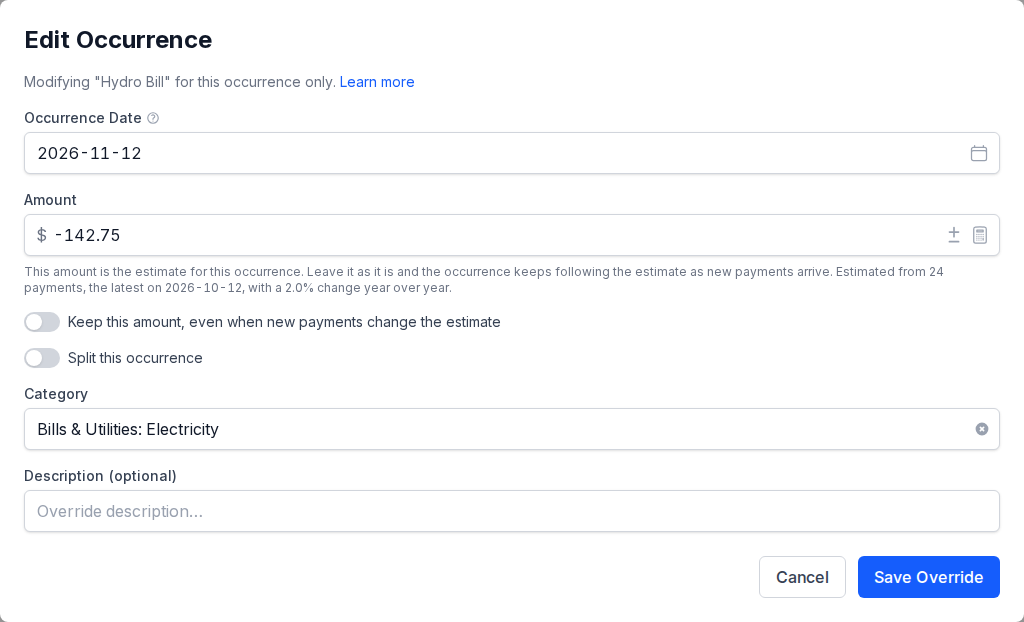
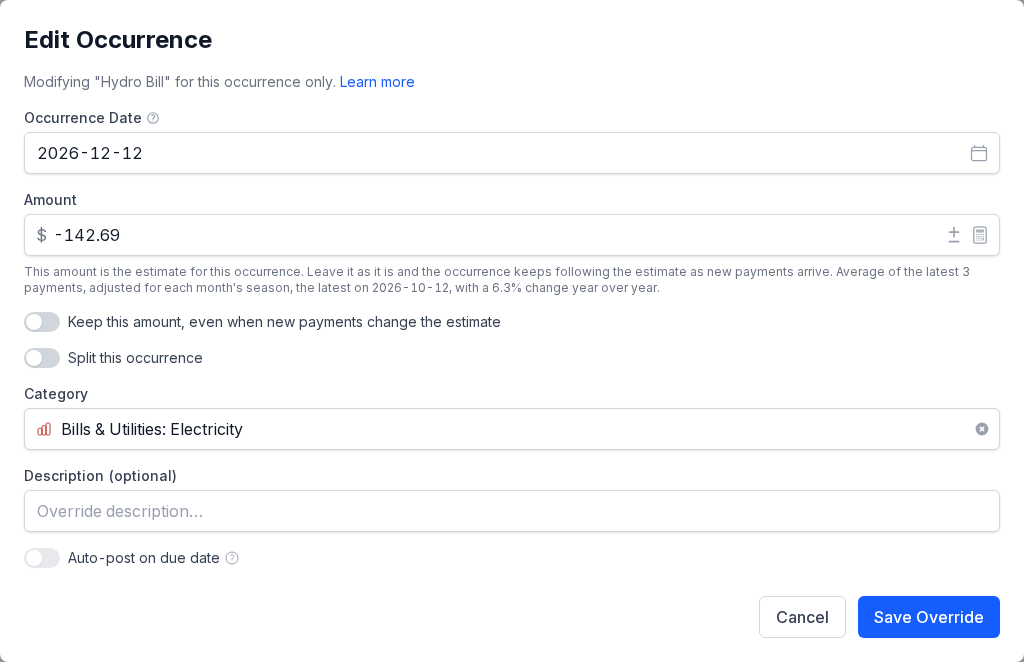
docs(website): describe per-occurrence auto-post and retake Bills pictures
The Bills & Deposits page explains the Edit Occurrence toggle and the
list's "Next on" / "Next off" markers; all its pictures are retaken in both
themes, with one demo bill's next occurrence opted in and one opted out.

cardOf, the capture helper that crops a picture to its card, matched cards
by a rounded-lg class that cards stopped carrying when the UI styles made
the radius a token, so every card-cropped picture timed out. It now matches
the ui-card marker CARD_CLASS carries.

Changed region(s): [[0.0, 0.0305, 0.9688, 0.8553], [0.75, 0.8859, 0.9688, 0.9775], [0.9375, 0.6415, 0.9688, 0.7026]]

diff --git a/website/docs/bills-and-deposits.html b/website/docs/bills-and-deposits.html
@@ -27,7 +27,7 @@
 <li>A payment in another currency is converted at the current exchange rate. Refunds from the biller are left out.</li>
 </ul>
 <figure><img src="/docs/images/scheduled-transaction-estimate.png" alt="A schedule with Estimate on" width="1104" height="942" loading="lazy" decoding="async" class="shot-dark"/><img src="/docs/images/scheduled-transaction-estimate.light.png" alt="A schedule with Estimate on" width="1104" height="942" loading="lazy" decoding="async" class="shot-light"/><figcaption>A schedule with Estimate on</figcaption></figure>
-<p>The estimate follows new payments as you record them. Under the <strong>Amount</strong>, the form says which payments set the estimate (those of the last 12 months, or your three most recent) and when the latest was, or what is missing when there is not enough to estimate from: no payments yet, or no exchange rate for a payment&#x27;s currency. An estimated schedule needs a <strong>Payee</strong> and a <strong>Category</strong>, is available for a single-category transaction in the account&#x27;s own currency (not a split, investment, or foreign-currency amount) or for a transfer (see <a href="#estimated-transfers">Estimated Transfers</a>), and is never posted automatically, so <strong>Auto-post on due date</strong> is turned off.</p>
+<p>The estimate follows new payments as you record them. Under the <strong>Amount</strong>, the form says which payments set the estimate (those of the last 12 months, or your three most recent) and when the latest was, or what is missing when there is not enough to estimate from: no payments yet, or no exchange rate for a payment&#x27;s currency. An estimated schedule needs a <strong>Payee</strong> and a <strong>Category</strong>, is available for a single-category transaction in the account&#x27;s own currency (not a split, investment, or foreign-currency amount) or for a transfer (see <a href="#estimated-transfers">Estimated Transfers</a>), and is not posted automatically, so <strong>Auto-post on due date</strong> is turned off. Once you enter an occurrence&#x27;s own amount in <strong>Edit Occurrence</strong>, you can turn on auto-posting for that one occurrence (see <a href="#modifying-an-occurrence">Modifying an Occurrence</a>).</p>
 <p>You still decide every occurrence: the bills list labels the amount <strong>Estimated</strong>, <strong>Edit Occurrence</strong> shows each upcoming occurrence&#x27;s estimate and lets you change any of them, and the <strong>Post Transaction</strong> dialog opens on the estimate for you to correct before posting. An occurrence you change keeps your amount; one you leave alone keeps following the estimate.</p>
 <h4 id="estimated-transfers">Estimated Transfers<a class="hlink" href="#estimated-transfers" aria-label="Link to this section">#</a></h4>
 <p>A transfer, such as the monthly payment of a credit card from your chequing account, has an <strong>Estimate</strong> toggle beside its <strong>Transfer Amount</strong> too. Its starting point is the same estimate, worked out from the last 24 months of transfers from the schedule&#x27;s account to the <strong>To Account</strong> (no payee or category needed). When the account you pay into owes more than that, the payment is raised to match, and never lowered:</p>
@@ -63,7 +63,7 @@
 </aside>
 <h2 id="bills-list">Bills List<a class="hlink" href="#bills-list" aria-label="Link to this section">#</a></h2>
 <p>Below the forecast, the list shows all scheduled transactions with:</p>
-<div class="table-wrap"><table><thead><tr><th>Column</th><th>Description</th></tr></thead><tbody><tr><td><strong>Name / Payee</strong></td><td>What the schedule is called and who it is with</td></tr><tr><td><strong>Account</strong></td><td>The account involved</td></tr><tr><td><strong>Category</strong></td><td>The category, the transfer&#x27;s destination, or a <strong>Split</strong> badge</td></tr><tr><td><strong>Amount</strong></td><td>The amount of the next occurrence</td></tr><tr><td><strong>Schedule</strong></td><td>The next due date with an <strong>Overdue</strong>, <strong>Due Today</strong>, or <strong>Due Soon</strong> (within a week) badge, the frequency, and how many occurrences are left</td></tr><tr><td><strong>Auto-Post</strong></td><td><strong>On</strong> when the schedule posts itself</td></tr><tr><td><strong>Actions</strong></td><td><strong>Post Transaction</strong>, <strong>Skip Occurrence</strong>, <strong>Edit Occurrence</strong>, <strong>Edit Schedule</strong>, and <strong>Delete</strong></td></tr></tbody></table></div>
+<div class="table-wrap"><table><thead><tr><th>Column</th><th>Description</th></tr></thead><tbody><tr><td><strong>Name / Payee</strong></td><td>What the schedule is called and who it is with</td></tr><tr><td><strong>Account</strong></td><td>The account involved</td></tr><tr><td><strong>Category</strong></td><td>The category, the transfer&#x27;s destination, or a <strong>Split</strong> badge</td></tr><tr><td><strong>Amount</strong></td><td>The amount of the next occurrence</td></tr><tr><td><strong>Schedule</strong></td><td>The next due date with an <strong>Overdue</strong>, <strong>Due Today</strong>, or <strong>Due Soon</strong> (within a week) badge, the frequency, and how many occurrences are left</td></tr><tr><td><strong>Auto-Post</strong></td><td><strong>On</strong> when the schedule posts itself. <strong>Next on</strong> marks a bill you post by hand whose next occurrence is set to post itself, and <strong>Next off</strong> an auto-posting bill whose next occurrence is left for you to post; the help icon beside either says which date it is</td></tr><tr><td><strong>Actions</strong></td><td><strong>Post Transaction</strong>, <strong>Skip Occurrence</strong>, <strong>Edit Occurrence</strong>, <strong>Edit Schedule</strong>, and <strong>Delete</strong></td></tr></tbody></table></div>
 <figure><img src="/docs/images/bills-list.png" alt="The list of scheduled transactions" width="1504" height="988" loading="lazy" decoding="async" class="shot-dark"/><img src="/docs/images/bills-list.light.png" alt="The list of scheduled transactions" width="1504" height="988" loading="lazy" decoding="async" class="shot-light"/><figcaption>The list of scheduled transactions</figcaption></figure>
 <p>A <strong>modified</strong> badge counts the upcoming occurrences you have changed (see <a href="#overriding-individual-occurrences">Overriding Individual Occurrences</a>), and paused schedules are marked inactive.</p>
 <h3 id="filtering">Filtering<a class="hlink" href="#filtering" aria-label="Link to this section">#</a></h3>
@@ -75,14 +75,14 @@
 <figure><img src="/docs/images/bills-calendar.png" alt="Bills &amp; Deposits in calendar view" width="1600" height="1000" loading="lazy" decoding="async" class="shot-dark"/><img src="/docs/images/bills-calendar.light.png" alt="Bills &amp; Deposits in calendar view" width="1600" height="1000" loading="lazy" decoding="async" class="shot-light"/><figcaption>Bills &amp; Deposits in calendar view</figcaption></figure>
 <h2 id="posting-a-transaction">Posting a Transaction<a class="hlink" href="#posting-a-transaction" aria-label="Link to this section">#</a></h2>
 <p>To record an occurrence yourself, click <strong>Post Transaction</strong> on its row. The <strong>Post Transaction</strong> dialog lets you change the <strong>Transaction Date</strong>, the <strong>Amount</strong>, the <strong>Category</strong>, the <strong>Description</strong>, and the <strong>Reference Number</strong> for this posting only, or split it with <strong>Split this transaction</strong>. It shows what the posting does to the account&#x27;s balance, and warns you when posting on that date would take an account below zero or over its credit limit.</p>
-<figure><img src="/docs/images/bills-post-transaction.png" alt="The Post Transaction dialog" width="1024" height="652" loading="lazy" decoding="async" class="shot-dark"/><img src="/docs/images/bills-post-transaction.light.png" alt="The Post Transaction dialog" width="1024" height="652" loading="lazy" decoding="async" class="shot-light"/><figcaption>The Post Transaction dialog</figcaption></figure>
+<figure><img src="/docs/images/bills-post-transaction.png" alt="The Post Transaction dialog" width="1024" height="668" loading="lazy" decoding="async" class="shot-dark"/><img src="/docs/images/bills-post-transaction.light.png" alt="The Post Transaction dialog" width="1024" height="652" loading="lazy" decoding="async" class="shot-light"/><figcaption>The Post Transaction dialog</figcaption></figure>
 <p>Click <strong>Post Transaction</strong> to create the transaction and advance the schedule to its next due date. Clicking an item in the dashboard&#x27;s <a href="/docs/dashboard#upcoming-bills">Upcoming Bills</a> widget opens the same dialog.</p>
 <p>Posted one by mistake? <strong>Undo</strong> it (<strong>Ctrl+Z</strong>, or <strong>Action History</strong> in the header, where it is listed as <strong>Posted scheduled transaction</strong>). Undo removes the transaction and puts the schedule back on the occurrence you posted, with any change you had made to that occurrence; a one-time bill comes back to the list. On a schedule that posts automatically, an occurrence that is already due would only be posted again within the hour, so undoing it removes the transaction and leaves that occurrence skipped instead. When a later occurrence of the same schedule has been posted since, undo that one first; when the next occurrence has been skipped since, delete the posted transaction instead. A posting cannot be redone: post the occurrence again instead.</p>
 <h2 id="auto-posting">Auto-Posting<a class="hlink" href="#auto-posting" aria-label="Link to this section">#</a></h2>
 <p>When <strong>Auto-post on due date</strong> is turned on for a scheduled transaction, Monize automatically creates the transaction on its due date without any manual intervention.</p>
 <h3 id="how-it-works">How It Works<a class="hlink" href="#how-it-works" aria-label="Link to this section">#</a></h3>
 <ol>
-<li>Every hour, Monize checks for active, auto-posting scheduled transactions that are due today or overdue in your timezone</li>
+<li>Every hour, Monize checks for active scheduled transactions whose next occurrence is due today or overdue in your timezone and set to post automatically, by the schedule or by that occurrence&#x27;s own <strong>Auto-post on due date</strong> in <strong>Edit Occurrence</strong></li>
 <li>Each due occurrence is created in the designated account, with any changes you made to that occurrence</li>
 <li>The next due date is calculated based on the frequency</li>
 <li>When the end date or the number of occurrences is reached, the schedule ends</li>
@@ -95,7 +95,7 @@
 </ul>
 <h3 id="when-not-to-use-auto-posting">When NOT to Use Auto-Posting<a class="hlink" href="#when-not-to-use-auto-posting" aria-label="Link to this section">#</a></h3>
 <ul>
-<li><strong>Variable-amount bills</strong> (e.g., utilities, credit card payments) -- Use reminders instead and enter the actual amount manually, or turn on <a href="#estimated-amounts">Estimate</a> so the forecast follows your history (an estimated bill is never auto-posted)</li>
+<li><strong>Variable-amount bills</strong> (e.g., utilities, credit card payments) -- Use reminders instead and enter the actual amount manually, or turn on <a href="#estimated-amounts">Estimate</a> so the forecast follows your history (an estimated bill is auto-posted only for an occurrence whose amount you entered and set to auto-post)</li>
 <li><strong>Bills your bank&#x27;s import already brings in</strong> -- the imported row and the auto-posted one would both be recorded</li>
 </ul>
 <h2 id="overriding-individual-occurrences">Overriding Individual Occurrences<a class="hlink" href="#overriding-individual-occurrences" aria-label="Link to this section">#</a></h2>
@@ -106,9 +106,10 @@
 <li>In <strong>Select Occurrence Date</strong>, choose which upcoming occurrence to change (occurrences you already changed are marked <strong>Modified</strong>)</li>
 <li>In the <strong>Edit Occurrence</strong> dialog, change the <strong>Occurrence Date</strong>, <strong>Amount</strong>, <strong>Category</strong>, or <strong>Description</strong> for this occurrence only</li>
 <li>To split just this occurrence across multiple categories, turn on <strong>Split this occurrence</strong> and add category/amount rows (independent of whether the underlying schedule is split)</li>
+<li>Turn <strong>Auto-post on due date</strong> on to have Monize post just this occurrence automatically on its date, or off to post it yourself when the schedule otherwise posts automatically. For an <a href="#estimated-amounts">estimated</a> bill the switch stays off until you enter this occurrence&#x27;s own amount. When the next occurrence&#x27;s choice differs from the bill&#x27;s, the list&#x27;s <strong>Auto-Post</strong> column shows <strong>Next on</strong> or <strong>Next off</strong>, and the dashboard&#x27;s upcoming bills and the Upcoming Bills report mark that occurrence <strong>Manual</strong> or not by its own choice</li>
 <li>Click <strong>Save Override</strong> (or <strong>Update Override</strong> for one you changed before)</li>
 </ol>
-<figure><img src="/docs/images/bills-edit-occurrence.png" alt="The Edit Occurrence dialog" width="1024" height="622" loading="lazy" decoding="async" class="shot-dark"/><img src="/docs/images/bills-edit-occurrence.light.png" alt="The Edit Occurrence dialog" width="1024" height="622" loading="lazy" decoding="async" class="shot-light"/><figcaption>The Edit Occurrence dialog</figcaption></figure>
+<figure><img src="/docs/images/bills-edit-occurrence.png" alt="The Edit Occurrence dialog" width="1024" height="662" loading="lazy" decoding="async" class="shot-dark"/><img src="/docs/images/bills-edit-occurrence.light.png" alt="The Edit Occurrence dialog" width="1024" height="622" loading="lazy" decoding="async" class="shot-light"/><figcaption>The Edit Occurrence dialog</figcaption></figure>
 <p>The override only affects that single occurrence. All other future occurrences follow the original schedule. <strong>Reset to Default</strong> removes the override. When you later edit a schedule that has overrides, Monize asks whether to <strong>Keep Modifications</strong> or <strong>Delete All Modifications</strong>.</p>
 <h3 id="skipping-an-occurrence">Skipping an Occurrence<a class="hlink" href="#skipping-an-occurrence" aria-label="Link to this section">#</a></h3>
 <p>If a recurring bill does not apply for a particular period (e.g., a holiday causes a payment to be skipped):</p>

diff --git a/e2e/docs-screenshots/bills-and-deposits.spec.ts b/e2e/docs-screenshots/bills-and-deposits.spec.ts
@@ -21,6 +21,10 @@ test.beforeAll(async ({ browser }) => {
   context = await openDocsSession(browser);
   page = await context.newPage();
   await estimateTheHydroBill();
+  // The list shows one bill whose next occurrence posts itself although the
+  // bill is posted by hand, and one the other way round.
+  await setNextOccurrenceAutoPost("Car Insurance", true);
+  await setNextOccurrenceAutoPost("Gym Membership", false);
 });
 
 interface ScheduleRow {
@@ -30,6 +34,37 @@ interface ScheduleRow {
   payeeId: string | null;
   categoryId: string | null;
   amountIsEstimated?: boolean;
+  nextDueDate: string;
+  nextOverride?: { id: string; autoPost?: boolean | null } | null;
+}
+
+/**
+ * Give the named demo bill's next occurrence its own auto-post choice, through
+ * the Edit Occurrence endpoints the dialog uses. Idempotent: an existing
+ * override of that occurrence is updated in place.
+ */
+async function setNextOccurrenceAutoPost(
+  name: string,
+  autoPost: boolean,
+): Promise<void> {
+  const api = apiFor(page);
+  const schedules = await api.get<ScheduleRow[]>("/scheduled-transactions");
+  const bill = schedules.find((s) => s.name === name);
+  if (!bill) throw new Error(`The demo data has no ${name} bill`);
+  if (bill.nextOverride) {
+    if (bill.nextOverride.autoPost === autoPost) return;
+    await api.patch(
+      `/scheduled-transactions/${bill.id}/overrides/${bill.nextOverride.id}`,
+      { autoPost },
+    );
+    return;
+  }
+  const date = String(bill.nextDueDate).slice(0, 10);
+  await api.post(`/scheduled-transactions/${bill.id}/overrides`, {
+    originalDate: date,
+    overrideDate: date,
+    autoPost,
+  });
 }
 
 /**

diff --git a/e2e/docs-screenshots/capture.ts b/e2e/docs-screenshots/capture.ts
@@ -82,10 +82,15 @@ export async function docShot(
   await shoot(page, file, { dir: DOCS_IMAGE_DIR, element });
 }
 
-/** The card (`Card`, a dashboard widget, a page section) that holds `inner`. */
+/**
+ * The card (`Card`, a dashboard widget, a page section) that holds `inner`, by
+ * the `ui-card` marker `CARD_CLASS` carries. Not by its corner class: the UI
+ * styles made the radius a token (`rounded-(--ui-radius-card)`), and the
+ * `rounded-lg` this used to look for matched no card at all.
+ */
 export function cardOf(inner: Locator): Locator {
   return inner.locator(
-    'xpath=ancestor::div[contains(concat(" ", normalize-space(@class), " "), " rounded-lg ")][1]',
+    'xpath=ancestor::*[contains(concat(" ", normalize-space(@class), " "), " ui-card ")][1]',
   );
 }
 

diff --git a/website/docs/bills-and-deposits.md b/website/docs/bills-and-deposits.md
@@ -56,7 +56,7 @@ For a bill whose amount changes from month to month, such as heating or electric
 
 ![A schedule with Estimate on](images/scheduled-transaction-estimate.png)
 
-The estimate follows new payments as you record them. Under the **Amount**, the form says which payments set the estimate (those of the last 12 months, or your three most recent) and when the latest was, or what is missing when there is not enough to estimate from: no payments yet, or no exchange rate for a payment's currency. An estimated schedule needs a **Payee** and a **Category**, is available for a single-category transaction in the account's own currency (not a split, investment, or foreign-currency amount) or for a transfer (see [Estimated Transfers](#estimated-transfers)), and is never posted automatically, so **Auto-post on due date** is turned off.
+The estimate follows new payments as you record them. Under the **Amount**, the form says which payments set the estimate (those of the last 12 months, or your three most recent) and when the latest was, or what is missing when there is not enough to estimate from: no payments yet, or no exchange rate for a payment's currency. An estimated schedule needs a **Payee** and a **Category**, is available for a single-category transaction in the account's own currency (not a split, investment, or foreign-currency amount) or for a transfer (see [Estimated Transfers](#estimated-transfers)), and is not posted automatically, so **Auto-post on due date** is turned off. Once you enter an occurrence's own amount in **Edit Occurrence**, you can turn on auto-posting for that one occurrence (see [Modifying an Occurrence](#modifying-an-occurrence)).
 
 You still decide every occurrence: the bills list labels the amount **Estimated**, **Edit Occurrence** shows each upcoming occurrence's estimate and lets you change any of them, and the **Post Transaction** dialog opens on the estimate for you to correct before posting. An occurrence you change keeps your amount; one you leave alone keeps following the estimate.
 
@@ -142,7 +142,7 @@ Below the forecast, the list shows all scheduled transactions with:
 | **Category** | The category, the transfer's destination, or a **Split** badge |
 | **Amount** | The amount of the next occurrence |
 | **Schedule** | The next due date with an **Overdue**, **Due Today**, or **Due Soon** (within a week) badge, the frequency, and how many occurrences are left |
-| **Auto-Post** | **On** when the schedule posts itself |
+| **Auto-Post** | **On** when the schedule posts itself. **Next on** marks a bill you post by hand whose next occurrence is set to post itself, and **Next off** an auto-posting bill whose next occurrence is left for you to post; the help icon beside either says which date it is |
 | **Actions** | **Post Transaction**, **Skip Occurrence**, **Edit Occurrence**, **Edit Schedule**, and **Delete** |
 
 ![The list of scheduled transactions](images/bills-list.png)
@@ -183,7 +183,7 @@ When **Auto-post on due date** is turned on for a scheduled transaction, Monize 
 
 ### How It Works
 
-1. Every hour, Monize checks for active, auto-posting scheduled transactions that are due today or overdue in your timezone
+1. Every hour, Monize checks for active scheduled transactions whose next occurrence is due today or overdue in your timezone and set to post automatically, by the schedule or by that occurrence's own **Auto-post on due date** in **Edit Occurrence**
 2. Each due occurrence is created in the designated account, with any changes you made to that occurrence
 3. The next due date is calculated based on the frequency
 4. When the end date or the number of occurrences is reached, the schedule ends
@@ -197,7 +197,7 @@ A posting that fails (for example, for want of an exchange rate) raises a notifi
 
 ### When NOT to Use Auto-Posting
 
-- **Variable-amount bills** (e.g., utilities, credit card payments) -- Use reminders instead and enter the actual amount manually, or turn on [Estimate](#estimated-amounts) so the forecast follows your history (an estimated bill is never auto-posted)
+- **Variable-amount bills** (e.g., utilities, credit card payments) -- Use reminders instead and enter the actual amount manually, or turn on [Estimate](#estimated-amounts) so the forecast follows your history (an estimated bill is auto-posted only for an occurrence whose amount you entered and set to auto-post)
 - **Bills your bank's import already brings in** -- the imported row and the auto-posted one would both be recorded
 
 ---
@@ -212,7 +212,8 @@ You can modify or skip individual occurrences of a scheduled transaction without
 2. In **Select Occurrence Date**, choose which upcoming occurrence to change (occurrences you already changed are marked **Modified**)
 3. In the **Edit Occurrence** dialog, change the **Occurrence Date**, **Amount**, **Category**, or **Description** for this occurrence only
 4. To split just this occurrence across multiple categories, turn on **Split this occurrence** and add category/amount rows (independent of whether the underlying schedule is split)
-5. Click **Save Override** (or **Update Override** for one you changed before)
+5. Turn **Auto-post on due date** on to have Monize post just this occurrence automatically on its date, or off to post it yourself when the schedule otherwise posts automatically. For an [estimated](#estimated-amounts) bill the switch stays off until you enter this occurrence's own amount. When the next occurrence's choice differs from the bill's, the list's **Auto-Post** column shows **Next on** or **Next off**, and the dashboard's upcoming bills and the Upcoming Bills report mark that occurrence **Manual** or not by its own choice
+6. Click **Save Override** (or **Update Override** for one you changed before)
 
 ![The Edit Occurrence dialog](images/bills-edit-occurrence.png)
 
